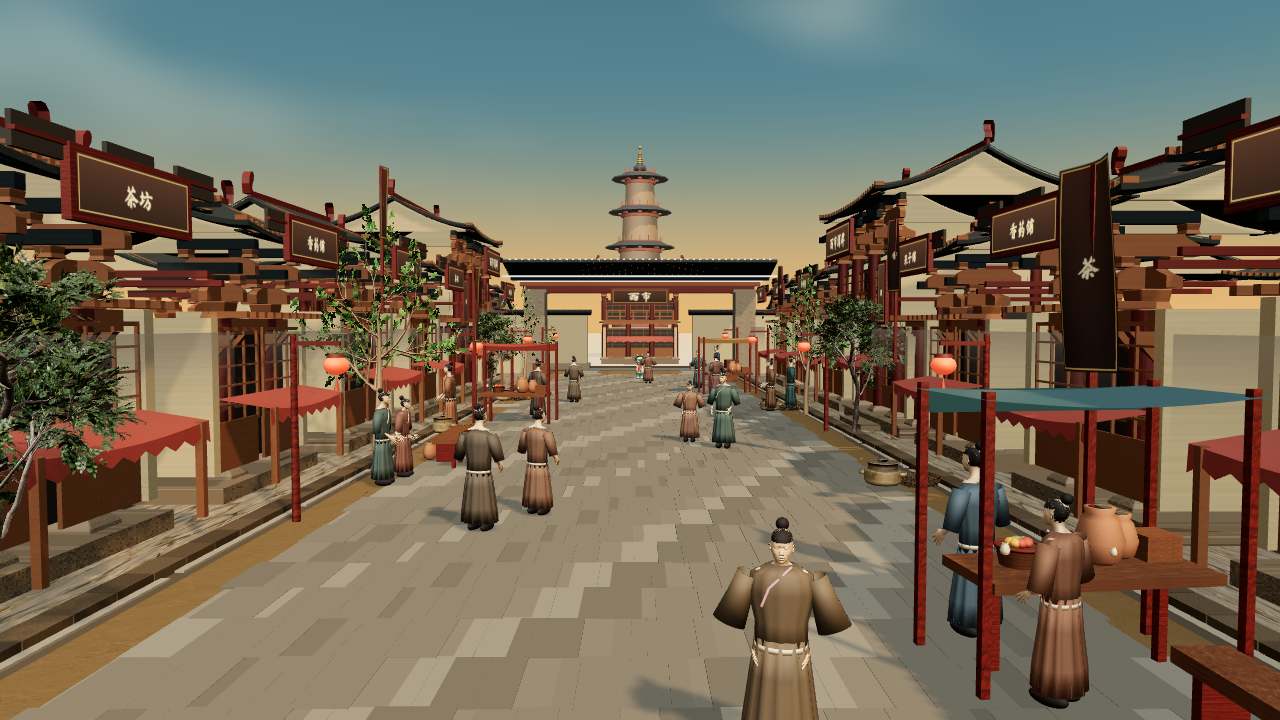
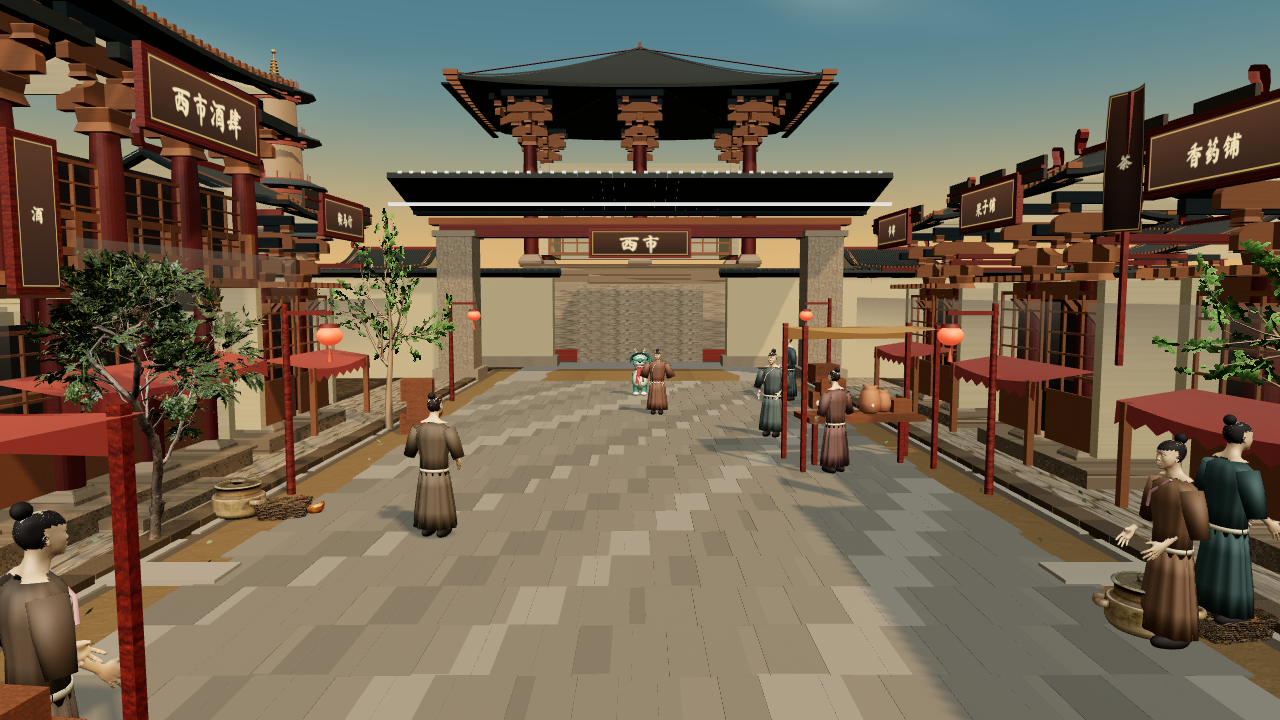
Raise a hall beyond the ward gate so the street ends on a monumental vista

diff --git a/src/hero-street.js b/src/hero-street.js
@@ -865,6 +865,79 @@
   /* 坊墙与坊外街景：从街心望出去，坊门之后不能是一片空地和地平线。
    * 这里在坊门后补一道横墙、一段横向街道和两排远景屋顶，
    * 让视线有落点；全部复用现有共享材质与简单几何。 */
+  /* 坊内殿堂：街尽头的主景。
+   * 目标要求"宏大建筑奇观"，而首街两侧只有市井小铺，屋面高度基本在同一线，
+   * 天际线缺一个高点。放在街侧会被两排铺面完全挡住（实测过：x=±19 时
+   * 屋顶只高出铺面 1m，从街上看不见）。因此改放在坊门之后的轴线上——
+   * 唐长安里坊的空间逻辑本来就是"坊门内十字街、两侧宅邸寺观"，
+   * 从街心穿过门洞看到的应当是殿宇，而不是另一排铺面。
+   * 只用变换复用同一份 GLB 与共享材质，不增加下载量。 */
+  function addWardHalls(hallRoot) {
+    if (!hallRoot) return null;
+    const group = new THREE.Group();
+    group.name = 'ward-halls';
+    // 尺寸经过实测标定：殿堂原本 scale 0.96、台基 1.35m 时屋面只到 8.5m，
+    // 被门楼（脊高 6.48m、宽 15m）完全挡住，从街上只看得到一片白墙。
+    // 现在 scale 1.5、台基 3.2m，屋面到 14.4m，能在门楼之上露出整片屋顶——
+    // 这是"宏大建筑奇观"在街景里唯一能成立的位置：街道尽头的主景。
+    const SCALE = 1.5;
+    const BASE_H = 3.2;
+    const HALL_Z = -52.0;
+    const baseW = 16.6;
+    const baseD = 12.2;
+
+    const base = new THREE.Mesh(new THREE.BoxGeometry(baseW, BASE_H, baseD), materials.stone);
+    base.position.set(0, BASE_H / 2 - 0.02, HALL_Z);
+    base.castShadow = base.receiveShadow = true;
+    group.add(base);
+    const coping = new THREE.Mesh(new THREE.BoxGeometry(baseW + 0.5, 0.26, baseD + 0.5), materials.stone);
+    coping.position.set(0, BASE_H - 0.06, HALL_Z);
+    group.add(coping);
+    // 台基压边下一道暗色墙脚，避免台基读成一块大方盒子。
+    const plinth = new THREE.Mesh(
+      new THREE.BoxGeometry(baseW + 0.2, 0.5, baseD + 0.2),
+      materials.darkWood,
+    );
+    plinth.position.set(0, 0.25, HALL_Z);
+    group.add(plinth);
+
+    const hall = kitInstance(hallRoot, {
+      position: [0, BASE_H, HALL_Z],
+      rotationY: Math.PI,
+      scale: SCALE,
+    });
+    hall.traverse((node) => {
+      if (!node.isMesh) return;
+      node.castShadow = true;
+      node.receiveShadow = true;
+      const material = Array.isArray(node.material) ? node.material[0] : node.material;
+      if (!material) return;
+      // 殿堂用比市井更重的木色与更深的屋面，读作"更高等级"。
+      if (/mat_vermilion/i.test(material.name || '')) node.material = materials.redWood;
+      else if (/mat_timber|mat_bracket_block/i.test(material.name || '')) node.material = materials.darkWood;
+      else if (/mat_roof_surface|mat_roof_tile/i.test(material.name || '')) node.material = materials.roof;
+      else if (/mat_roof_ridge/i.test(material.name || '')) node.material = materials.darkWood;
+      else if (/mat_plaster/i.test(material.name || '')) node.material = materials.plaster;
+    });
+    group.add(hall);
+    // 殿前踏道：从坊门地面接到台基，给主景一条可读的路径。
+    const STEPS = 7;
+    for (let i = 0; i < STEPS; i++) {
+      const h = BASE_H * (STEPS - i) / STEPS;
+      const step = new THREE.Mesh(
+        new THREE.BoxGeometry(5.2, h, 0.74),
+        materials.stone,
+      );
+      step.position.set(0, h / 2, -45.3 - i * 0.74);
+      step.receiveShadow = true;
+      step.castShadow = true;
+      group.add(step);
+    }
+    scene.add(group);
+    state.wardHalls = 1;
+    return group;
+  }
+
   /* 坊墙：唐长安的里坊以夯土墙围合，墙头压瓦。之前这里是一块无构造的
    * 平板盒子，远看读成一块灰绿色板子。这里按"台基 + 墙身 + 双坡瓦顶"
    * 三段构造，并让门洞后一定有建筑封住视线。 */
@@ -924,9 +997,9 @@
     }
 
     // 门洞之后必须有建筑：否则从街上穿过门洞看到的是雾里的一片白。
-    // 门洞正后放一栋两层酒肆，两侧再各补一栋铺面。
+    // 正中不放铺面——那里留给 addWardHalls 的殿堂作主景；
+    // 只在两侧各补一栋，把门洞两侧的空隙填住。
     const beyond = [
-      [0, -53.0, Math.PI, 1.0, tavernRoot],
       [-11.5, -50.0, Math.PI, 0.9, shopRoot],
       [11.5, -50.0, Math.PI, 0.9, shopRoot],
       [-22.0, -47.5, Math.PI, 0.86, tavernRoot],
@@ -1045,8 +1118,9 @@
   function createPagoda() {
     const pagoda = new THREE.Group();
     pagoda.name = 'distant-pagoda';
-    // 塔放在坊门之后、雾的过渡带里：太远会洗成一团白，太近会抢街景。
-    pagoda.position.set(0, 0, -64);
+    // 塔放在坊门之后的偏侧：正对轴线会被殿堂完全挡住（实测），
+    // 偏到 x=-24 后与殿堂各占一条天际线，从街心看是"左塔右殿"的层次。
+    pagoda.position.set(-24.0, 0, -66);
     const stone = materials.pagodaBody;
     const eaveMat = materials.pagodaRoof;
     const woodMat = materials.pagodaWood;
@@ -1488,9 +1562,13 @@
     state.kitStats = KitLibrary.stats;
 
     setProgress(0.2, '装起西市木构');
-    const [shopRoot, tavernRoot, residentMale, residentFemale] = await Promise.all([
+    const [shopRoot, tavernRoot, hallRoot, residentMale, residentFemale] = await Promise.all([
       kitLoad('shop-shijing', '/assets/kit/architecture/shop-shijing.glb'),
       kitLoad('tavern-shijing', '/assets/kit/architecture/tavern-shijing.glb'),
+      // 殿堂构件：目标要求"宏大建筑奇观"，只靠市井小铺做不到。
+      // 这里把已有的殿堂 GLB 作为坊内宏大量体放在街廓之后，
+      // 与街面铺面共用同一套语义材质，不额外下载贴图。
+      kitLoad('hall-shijing', '/assets/kit/architecture/hall-shijing.glb'),
       kitLoad('resident-male', '/assets/kit/architecture/resident-male.glb'),
       kitLoad('resident-female', '/assets/kit/architecture/resident-female.glb'),
     ]);
@@ -1540,6 +1618,7 @@
     entries.forEach((entry) => addBuilding(entry.kind === 'tavern' ? tavernRoot : shopRoot, entry));
     flushBatches();
     addBackRows(shopRoot, tavernRoot);
+    addWardHalls(hallRoot);
     createWardWall(shopRoot, tavernRoot);
     // 记录每间铺面的行当与挂幌纵向范围，供验收核对不重复、不出铺面。
     state.streetPlan = entries.map((entry) => {

diff --git a/docs/REBUILD_PLAN.md b/docs/REBUILD_PLAN.md
@@ -367,6 +367,23 @@
 - 复审 1280×720 / 844×390 均 passed，1973/1999 calls、约 191/194 万三角形、
   24 间铺面、min gap 0.12m。
 
+### 同轮：坊内殿堂与门楼瓦垄（建筑第五轮）
+
+- **宏大奇观缺位**：首街只有市井小铺，屋面高度基本在同一线。目标要求
+  "宏大建筑奇观"，因此把已有但一直没用的 `hall-shijing.glb` 用起来。
+- 试过放在街侧（x=±19）：屋顶只高出铺面 1m，被两排铺面完全挡住，
+  从街上根本看不见（已实测包围盒确认）。
+- 改为放在坊门之后的轴线上，按唐长安里坊的空间逻辑（坊门内十字街、
+  两侧宅邸寺观），从街心穿过门洞看到的就是殿宇。
+- 尺寸经过实测标定：scale 0.96 / 台基 1.35m 时屋面只到 8.5m，被门楼
+  （脊高 6.48m）完全挡住。改为 scale 1.5 / 台基 3.2m，屋面到 14.4m，
+  才能在门楼之上露出整片屋顶；并补七级踏道与台基压边。
+- 远景塔从轴线移到 x=-24：正对轴线会被殿堂完全挡住，偏开后
+  与殿堂各占一条天际线（"左塔右殿"）。
+- 门楼屋面补瓦垄与檐口压边：整条街的屋面都有瓦垄，只有门楼是一块黑板。
+- 复审 1280×720 / 844×390 均 passed，2070/2096 calls、约 191/195 万三角形、
+  12 个 GLB 全部加载、0 失败。
+
 ## 决策记录
 
 - 构件几何统一以"底面 z=0"为基准，便于按层堆叠与复用。
